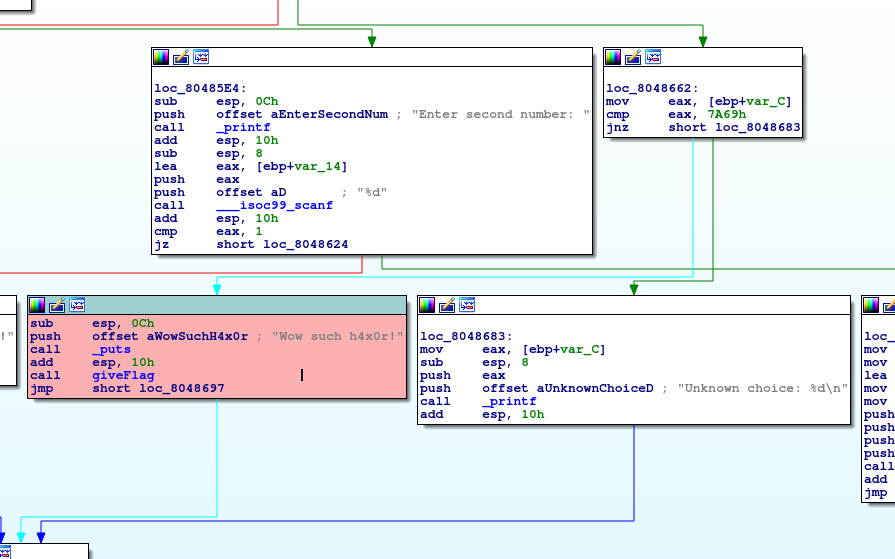
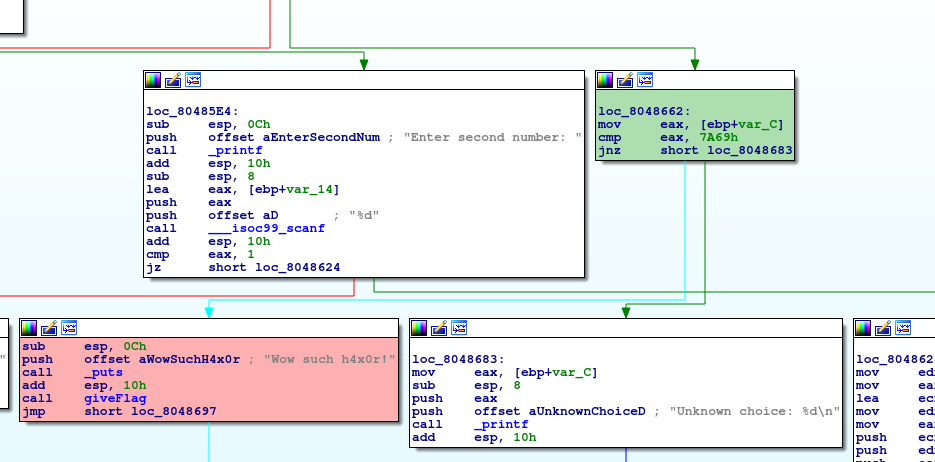
Updated the graph image and some README.md text

diff --git a/UCF/RE_Loop1/README.md b/UCF/RE_Loop1/README.md
@@ -98,11 +98,11 @@ Here it can be seen that the string is referenced in the main function. Double c
 
 ![Graph View](graph1.png)
 
-We can see from this that the function is call goes back to the green coloured box. If we jump to Text View, we can see the code compares `eax` to 0x7A69:
+We can see from this that the function call goes back to the green coloured box, and if it doesn't go to the red box, it goes to the `Unknown choice` option. If we jump to Text View, we can see the code compares `eax` to 0x7A69:
 
 ![Code output](code1.png)
 
-If we look where the green code is called from, we can see it is above when `eax` is not 3. If `eax` is 3, then we get the `Goodbye!` message, so I assume `eax` contains the menu option selected.
+If we look where the green code is called from, we can see it is the lines above, when `eax` is not 3. If `eax` is 3, then we get the `Goodbye!` message, so I assume `eax` contains the menu option selected.
 
 I converted 0x7A69 to decimal, and tried entering it as a menu option:
 ```bash
